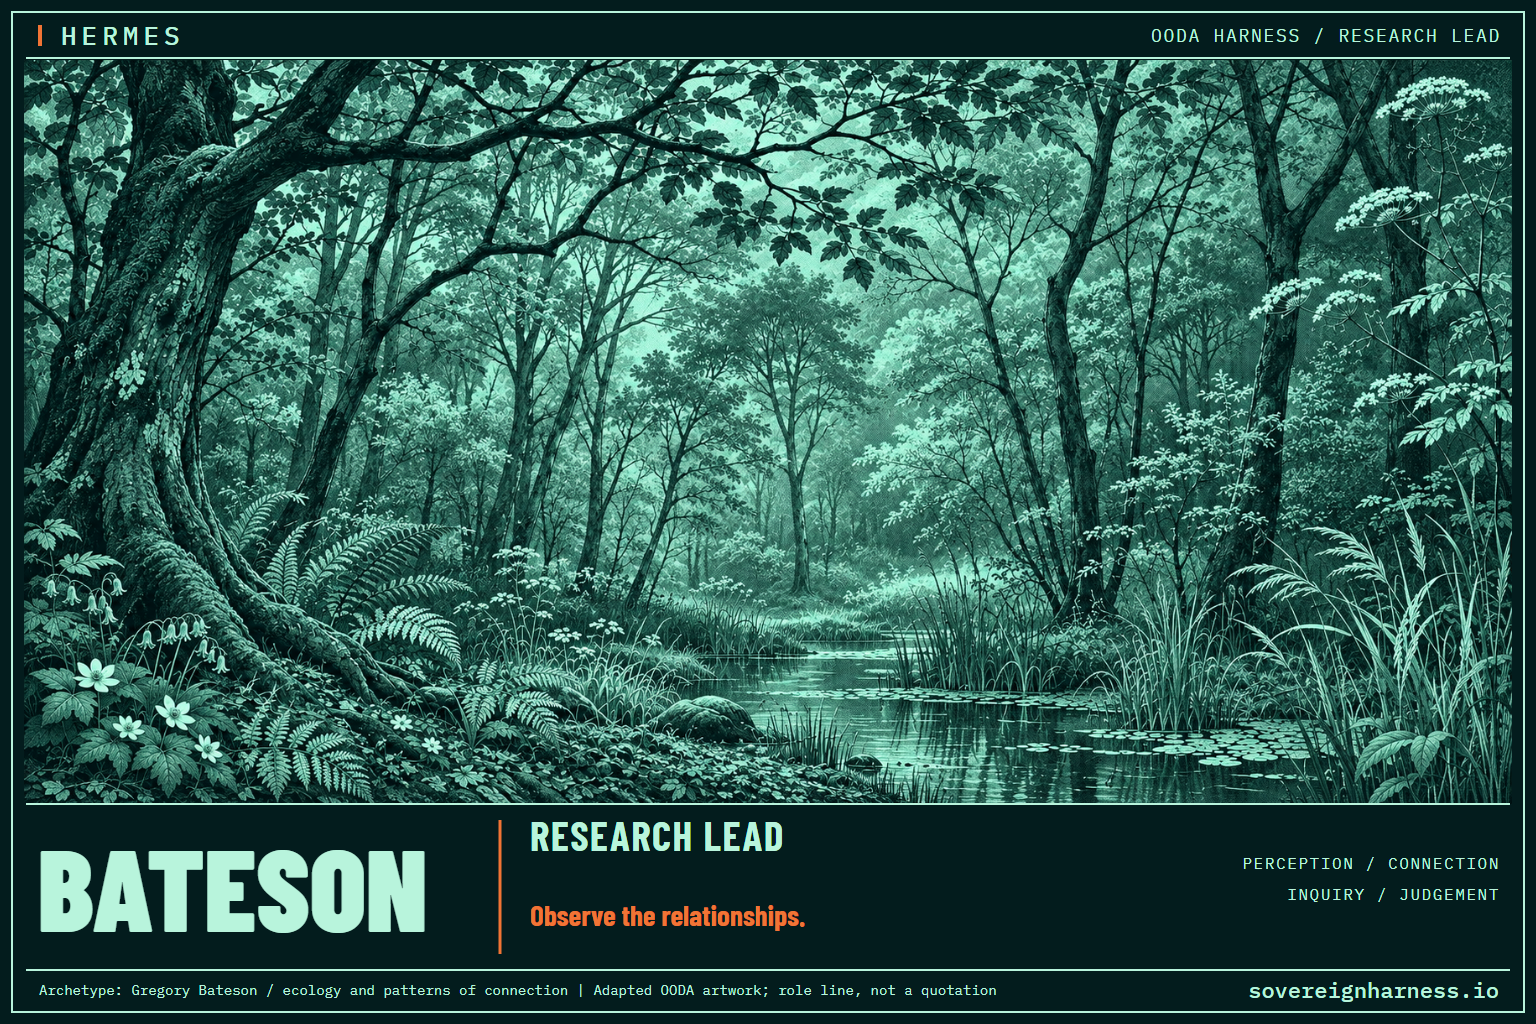
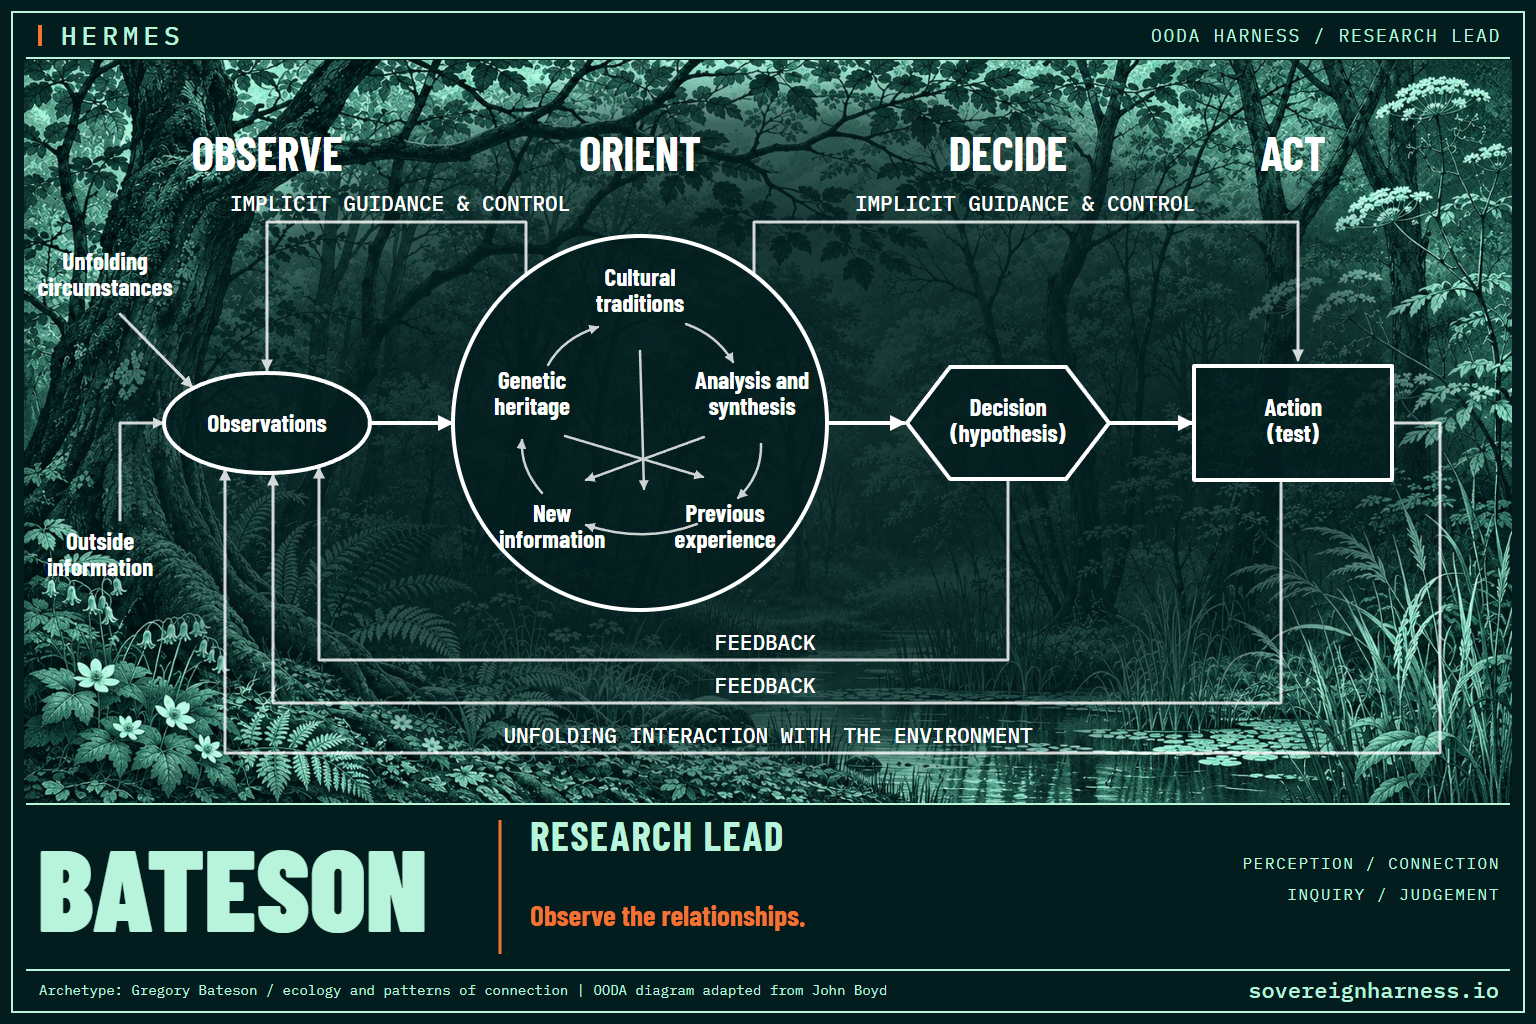
Use the revised Bateson artwork in Profile Packs

diff --git a/index.html b/index.html
@@ -79,7 +79,7 @@
       </li>
       <li class="pack-card">
         <h3>Operate in other people’s decision cycles</h3>
-        <img src="assets/research-lead-bateson.png" alt="" width="1536" height="1024" loading="lazy">
+        <img src="assets/research-lead-bateson.png?v=bf51e3c" alt="A white OODA diagram shows how observation, orientation, decisions and action connect, over a teal woodland." width="1536" height="1024" loading="lazy">
         <p class="pack-character"><strong>Bateson</strong> · Research Lead</p>
         <p>Build a theory of mind for the people you’re dealing with. Use Boyd’s OODA loop to understand what they see, how they make sense of it and when to act.</p>
       </li>
